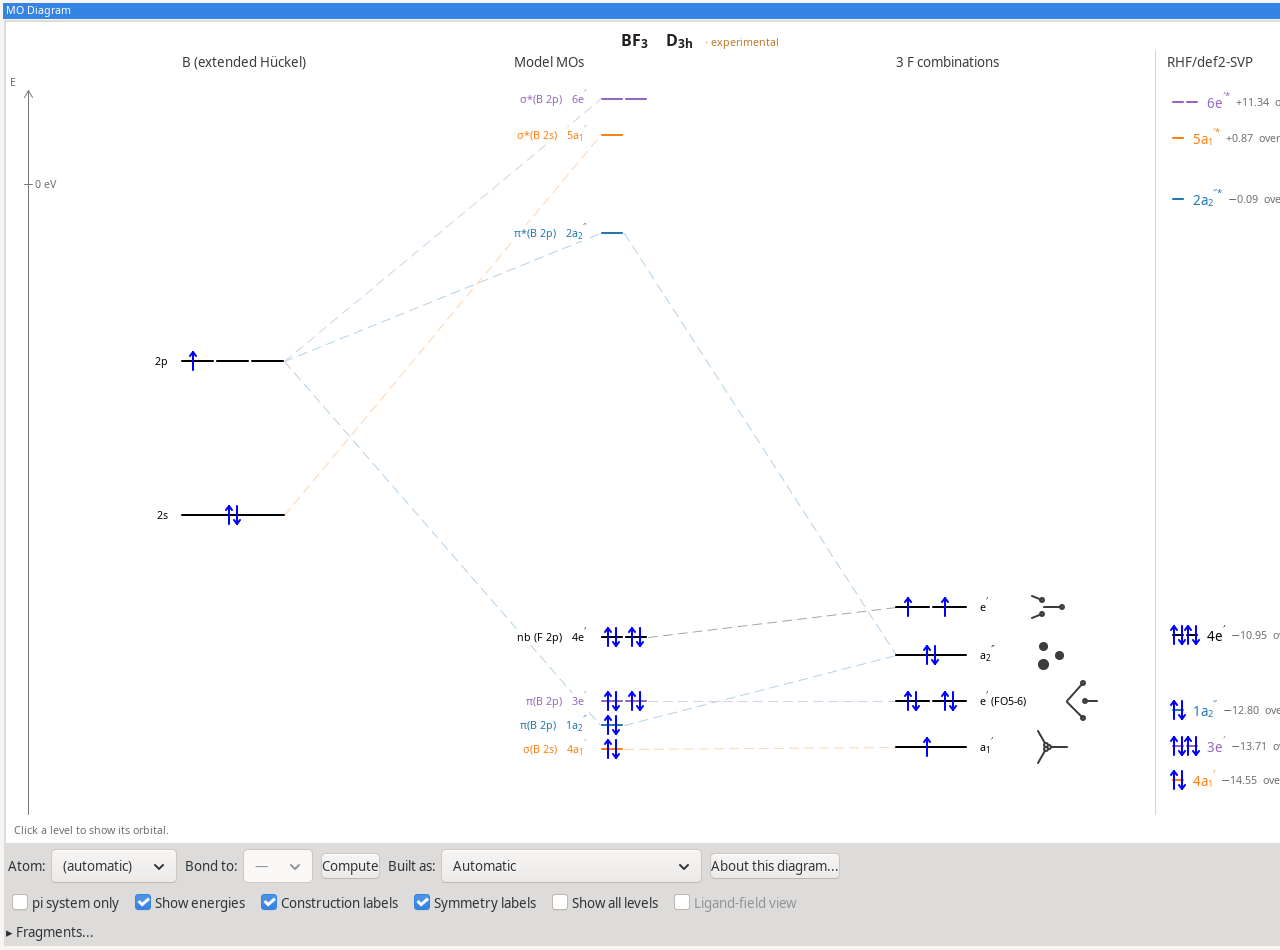
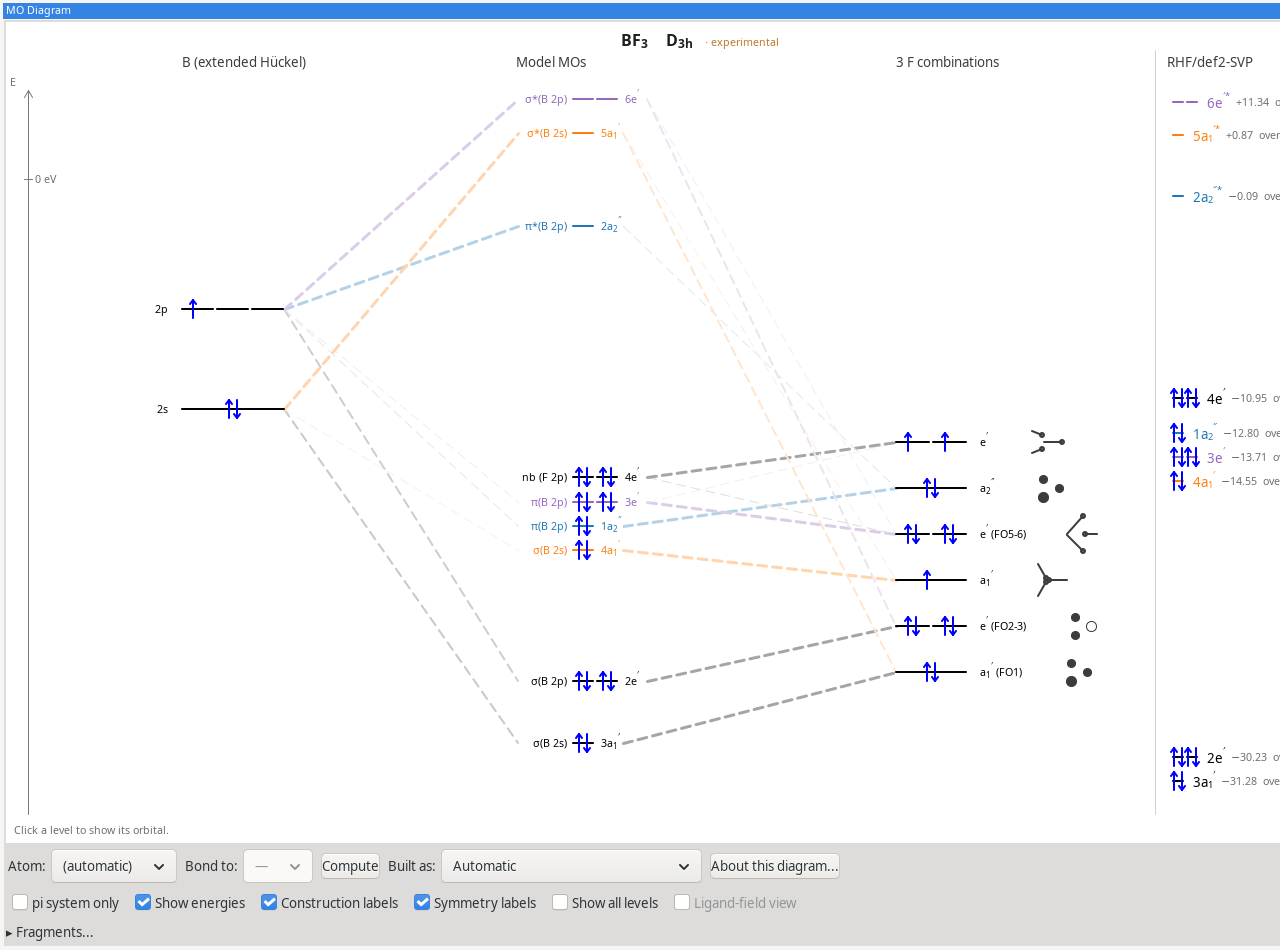
MO diagram labels: construction left / symmetry right of the level, sigma/pi from ligand orbitals, C2 by overlap, 3 % weighted lines, no folded halves (#458)
Claude-Session: https://claude.ai/code/session_01EGw82hDZdA6WGyjZW5puiH

diff --git a/src/tdat/chemistry/ModelLabels.C b/src/tdat/chemistry/ModelLabels.C
@@ -2,8 +2,6 @@
 
 #include <algorithm>
 #include <cmath>
-#include <cstdio>
-#include <cstdlib>
 #include <map>
 
 #include "tdat/ModelDiagram.H"
@@ -167,21 +165,48 @@ bool ModelDiagram::constructLabels(const Input& in, vector<ConstructLabel>& out,
 
    if (central) {
       const double* pc = &in.coordsAng[3*in.leftAtoms[0]];
+      //  sigma/pi content of a coefficient vector on the ligand atoms, about each centre-ligand bond.
+      auto ligandSigmaPi = [&](const vector<double>& row, double& sg, double& pp) {
+         sg = pp = 0.0;
+         for (size_t a = 0; a < in.rightAtoms.size(); a++) {
+            double u[3], n = 0.0;
+            for (int q = 0; q < 3; q++) { u[q] = in.coordsAng[3*in.rightAtoms[a]+q] - pc[q]; n += u[q]*u[q]; }
+            n = sqrt(n);
+            for (int q = 0; q < 3; q++) u[q] /= (n > 0 ? n : 1.0);
+            vector<int> one(1, in.rightAtoms[a]);
+            double par, perp, d;
+            axisWeights(set, row, one, u, par, perp, d);
+            sg += par;  pp += perp;
+         }
+      };
+      //  A level is sigma or pi by the ligand fragment orbitals it is made of
+      //  (a degenerate set of them taken whole, as its members mix freely).
+      vector< vector<int> > groups;
+      FragmentOrbitals::groupFos(set, groups);
+      vector<double> groupSigma(groups.size(), 0.5);
+      for (size_t g = 0; g < groups.size(); g++) {
+         if (set.fos[groups[g][0]].fragment != 1) continue;
+         double sg = 0.0, pp = 0.0;
+         for (size_t q = 0; q < groups[g].size(); q++) {
+            double a, b;
+            ligandSigmaPi(set.fos[groups[g][q]].coef, a, b);
+            sg += a;  pp += b;
+         }
+         if (sg + pp > 1e-12) groupSigma[g] = sg/(sg + pp);
+      }
       for (size_t c = 0; c < cl.size(); c++) {
          ConstructLabel& L = out[c];
          double sigW = 0.0, piW = 0.0;
-         for (size_t k = 0; k < cl[c].mos.size(); k++) {
-            const vector<double>& row = rows[cl[c].mos[k]];
-            for (size_t a = 0; a < in.rightAtoms.size(); a++) {
-               double u[3], n = 0.0;
-               for (int q = 0; q < 3; q++) { u[q] = in.coordsAng[3*in.rightAtoms[a]+q] - pc[q]; n += u[q]*u[q]; }
-               n = sqrt(n);
-               for (int q = 0; q < 3; q++) u[q] /= (n > 0 ? n : 1.0);
-               vector<int> one(1, in.rightAtoms[a]);
-               double par, perp, d;
-               axisWeights(set, row, one, u, par, perp, d);
-               sigW += par;  piW += perp;
-            }
+         for (size_t g = 0; g < groups.size(); g++) {
+            if (set.fos[groups[g][0]].fragment != 1) continue;
+            double share = 0.0;
+            for (size_t k = 0; k < cl[c].mos.size(); k++)
+               for (size_t q = 0; q < groups[g].size(); q++) {
+                  const double a = amp[cl[c].mos[k]][groups[g][q]];
+                  share += a*a;
+               }
+            sigW += share*groupSigma[g];
+            piW += share*(1.0 - groupSigma[g]);
          }
          const vector<double>& lead = rows[cl[c].mos[0]];
          const bool onCentre = shL[c] >= shR[c];
@@ -285,12 +310,6 @@ bool ModelDiagram::constructLabels(const Input& in, vector<ConstructLabel>& out,
       n.shell = n.parL.substr(n.parL.find(' ') + 1);
    }
 
-   if (getenv("ECCE_LABELS_DEBUG")) {
-      for (size_t c = 0; c < named.size(); c++)
-         fprintf(stderr, "unmixed %zu E=%.2f eV type=%d parity=%d anti=%d %s\n", c, named[c].energy*27.2114,
-                 named[c].kind.type, named[c].kind.parity, (int)named[c].anti, named[c].shell.c_str());
-      for (size_t c = 0; c < cl.size(); c++) fprintf(stderr, "real %zu E=%.2f eV\n", c, cl[c].energy*27.2114);
-   }
    //  Real levels, grouped by (type, parity); energy order against energy order.
    map<pair<int,int>, vector<size_t> > realBy, unBy;
    vector<Kind> realKind(cl.size());
@@ -303,8 +322,41 @@ bool ModelDiagram::constructLabels(const Input& in, vector<ConstructLabel>& out,
       if (it->first.first == 2) continue;
       const vector<size_t>& u = unBy[it->first];
       if (u.size() != it->second.size()) continue;       // not a clean correlation: say nothing
+      //  One-to-one assignment of the real levels to the unmixed ones that
+      //  maximises the summed squared overlap; energy order breaks ties.
+      const size_t nn = u.size();
+      vector<size_t> pm(nn);
+      for (size_t k = 0; k < nn; k++) pm[k] = k;
+      if (nn > 1 && nn <= 7) {
+         vector< vector<double> > w(nn, vector<double>(nn, 0.0));
+         for (size_t i = 0; i < nn; i++)
+            for (size_t j = 0; j < nn; j++) {
+               const Level& R = cl[it->second[i]];
+               const Level& U = ucl[u[j]];
+               for (size_t a = 0; a < R.mos.size(); a++)
+                  for (size_t b = 0; b < U.mos.size(); b++) {
+                     //  Both vectors normalised in the full overlap metric.
+                     double o = 0.0, nu = 0.0;
+                     for (size_t p = 0; p < nf; p++) {
+                        double sc = 0.0;
+                        for (size_t q = 0; q < nf; q++) sc += set.overlap[p*nf+q]*uRows[U.mos[b]][q];
+                        o += rows[R.mos[a]][p]*sc;
+                        nu += uRows[U.mos[b]][p]*sc;
+                     }
+                     w[i][j] += nu > 1e-12 ? o*o/nu/R.mos.size() : 0.0;
+                  }
+            }
+         vector<size_t> trial(pm);
+         double best = -1e30;
+         do {
+            double sc = 0.0;
+            for (size_t i = 0; i < nn; i++)
+               sc += w[i][trial[i]] - 1e-6*fabs((double)i - (double)trial[i]);
+            if (sc > best) { best = sc; pm = trial; }
+         } while (next_permutation(trial.begin(), trial.end()));
+      }
       for (size_t k = 0; k < u.size(); k++) {
-         const Named& n = named[u[k]];
+         const Named& n = named[u[pm[k]]];
          ConstructLabel& L = out[it->second[k]];
          const char* kind = n.kind.type == 0 ? SIGMA : PI;
          const size_t c = it->second[k];

diff --git a/src/apps/builder/MoDiagramCanvas.H b/src/apps/builder/MoDiagramCanvas.H
@@ -1056,6 +1056,7 @@ class MoDiagramCanvas : public wxPanel
       int labelW;      // width of the label's row
       int labelH;      // height of the label's row
       int top, bottom; // the arrows
+      int linkL, linkR;  // where the links from the left and right fragment columns meet the level
     };
     vector<CentreLane> p_cLanes;
     int p_cLaneTotal = 0;
@@ -1098,7 +1099,7 @@ class MoDiagramCanvas : public wxPanel
       const int row = dc.GetTextExtent(wxT("Xg")).y;
       const int R = row + 2;
 
-      int labelCol = 0, slotsMax = 0;
+      int conCol = 0, symCol = 0, slotsMax = 0;
       vector<int> natural(n), half(n);
       for (int i = 0; i < n; i++) {
         const int count = p_centre.levels[i].degeneracy > 0 ? p_centre.levels[i].degeneracy : 1;
@@ -1109,15 +1110,16 @@ class MoDiagramCanvas : public wxPanel
       const int budget = maxWidth - slotsMax - 16;
       p_cMode = 2;
       for (int mode = 0; mode < 3; mode++) {
-        int widest = 0;
+        int wcMax = 0, wlMax = 0;
         for (int i = 0; i < n; i++) {
           vector<Piece> pieces;
           int wl, wc;
           string text;
           centreRow(dc, p_centre.levels[i], pieces, wl, wc, text, mode);
-          widest = max(widest, wl + (wl && wc ? 10 : 0) + wc);
+          wcMax = max(wcMax, wc);
+          wlMax = max(wlMax, wl);
         }
-        if (widest <= budget || mode == 2) { p_cMode = mode; labelCol = widest; break; }
+        if (wcMax + wlMax + 16 <= budget || mode == 2) { p_cMode = mode; conCol = wcMax; symCol = wlMax; break; }
       }
       slotsMax = 0;
       for (int i = 0; i < n; i++) {
@@ -1153,9 +1155,15 @@ class MoDiagramCanvas : public wxPanel
         else p_zeroY = min(lim1, posBottom + R);
       }
 
-      for (int i = 0; i < n; i++) p_cLanes[i].labelW = labelCol;
-      p_cLabelRight = labelCol;
-      const int lineX = labelCol + 16;
+      //  construction label | lines | symmetry label; the right-hand links start after the latter.
+      const int lineX = conCol + (conCol ? 12 : 6);
+      for (int i = 0; i < n; i++) {
+        const int count = p_centre.levels[i].degeneracy > 0 ? p_centre.levels[i].degeneracy : 1;
+        p_cLanes[i].labelW = conCol + symCol;
+        p_cLanes[i].linkL = lineX - 2 - (conCol ? conCol + 8 : 0);
+        p_cLanes[i].linkR = lineX + count*centreSlot() - 2 + (symCol ? symCol + 8 : 0);
+      }
+      p_cLabelRight = lineX;
       for (int i = 0; i < n; i++) {
         CentreLane& c = p_cLanes[i];
         c.lane = 0;
@@ -1165,7 +1173,7 @@ class MoDiagramCanvas : public wxPanel
         c.top = y[i] - half[i];
         c.bottom = y[i] + half[i];
       }
-      p_cLaneTotal = lineX + slotsMax;
+      p_cLaneTotal = lineX + slotsMax + (symCol ? symCol + 8 : 0);
       return p_cLaneTotal;
     }
 
@@ -1199,14 +1207,13 @@ class MoDiagramCanvas : public wxPanel
         centreRow(dc, level, pieces, wl, wc, conText, p_cMode);
         dc.SetFont(base);
         const int row = dc.GetTextExtent(wxT("Xg")).y;
-        const int right = x0 + p_cLabelRight;
         const int top = c.labelY - row/2;
-        const int xSym = right - wl;
-        const int xCon = xSym - (wl && wc ? 10 : 0) - wc;
-        const int xLeftmost = min(wl ? xSym : right, wc ? xCon : right);
+        const int xCon = x0 + c.lineX - 6 - wc;
+        const int xSym = x0 + c.lineX + count*slot + 4;
         dc.SetPen(*wxTRANSPARENT_PEN);
         dc.SetBrush(*wxWHITE_BRUSH);
-        if (wl || wc) dc.DrawRectangle(xLeftmost - 2, top, right - xLeftmost + 4, row);
+        if (wc) dc.DrawRectangle(xCon - 2, top, wc + 4, row);
+        if (wl) dc.DrawRectangle(xSym - 2, top, wl + 4, row);
         dc.SetBrush(*wxTRANSPARENT_BRUSH);
         dc.SetTextForeground(colour);
         if (wc) dc.DrawText(wxString(conText.c_str(), wxConvUTF8), xCon, top);
@@ -2330,7 +2337,18 @@ class MoDiagramCanvas : public wxPanel
                                (tint.Blue()  + 2*255)/3);
           //  One width for every construction: a thicker line reads as a
           //  rendering artifact, and the share is in the level's text.
-          dc.SetPen(wxPen(tint, 1, wxPENSTYLE_SHORT_DASH));
+          //  Weighted lines: width and strength grow with the share, 3 % thin and
+          //  faint up to 50 % full.
+          int penWidth = 1;
+          if (link.weight >= 0.0) {
+            const double t = max(0.0, min(1.0, (link.weight - 0.03)/0.47));
+            penWidth = 1 + (int)floor(2.0*t + 0.5);
+            const double keep = 0.35 + 0.65*t;
+            tint = wxColour((int)(255 - keep*(255 - tint.Red())),
+                            (int)(255 - keep*(255 - tint.Green())),
+                            (int)(255 - keep*(255 - tint.Blue())));
+          }
+          dc.SetPen(wxPen(tint, penWidth, wxPENSTYLE_SHORT_DASH));
 
           //  WHERE THE LEVEL IS DRAWN, not where its energy puts it.
           //
@@ -2349,8 +2367,9 @@ class MoDiagramCanvas : public wxPanel
           if (model && (size_t)link.centreLevel < p_cLanes.size()) {
             const CentreLane& c = p_cLanes[link.centreLevel];
             const int count = max(1, p_centre.levels[link.centreLevel].degeneracy);
-            cxL = xCentre + c.lineX - 2;
-            cxR = xCentre + c.lineX + count*centreSlot() - 2;
+            (void)count;
+            cxL = xCentre + c.linkL;
+            cxR = xCentre + c.linkR;
           }
           if (link.leftLevel >= 0 && link.leftLevel < (int)p_left.levels.size()) {
             dc.DrawLine(xLeft + leftWidth,

diff --git a/tests/modellabels/modellabels_test.C b/tests/modellabels/modellabels_test.C
@@ -43,6 +43,21 @@ static std::string join(const Labels& l, size_t from, size_t n, bool full)
    return s;
 }
 
+//  A bonding level and its antibonding partner are of one sigma/pi type: each
+//  type has at least as many bonding as antibonding levels, and none is
+//  antibonding alone.
+static void partners(const Labels& l, const char* name)
+{
+   int bond[2] = {0, 0}, anti[2] = {0, 0};
+   for (size_t i = 0; i < l.size(); i++) {
+      if (l[i].nonbonding || l[i].plain.empty()) continue;
+      const int t = l[i].plain.compare(0, 2, "\xCF\x83") == 0 ? 0 : 1;
+      (l[i].antibonding ? anti : bond)[t]++;
+   }
+   for (int t = 0; t < 2; t++)
+      CHECK(anti[t] <= bond[t], "%s: %d antibonding vs %d bonding of type %d", name, anti[t], bond[t], t);
+}
+
 static std::vector<double> vec(const double* p, size_t n) { return std::vector<double>(p, p + n); }
 
 int main(int argc, char** argv)
@@ -64,7 +79,8 @@ int main(int argc, char** argv)
             "N2 plain: %s", join(n2, 0, 6, false).c_str());
       const double cc[6] = {0, 0, 0, 0, 0, 1.243};
       Labels c2 = run({"C", "C"}, vec(cc, 6), a, b, rot);
-      //  C2 is printed, not checked: the unmixed sigma*2p lies below sigma*2s there (open question, #458).
+      //  C2 is printed, not asserted: its 2sigma_u is a 50/50 s-p mixture (overlap .895 with sigma*2p,
+      //  .877 with sigma*2s), so neither energy order nor overlap names it sigma*2s (open, #458).
       const double oo[6] = {0, 0, 0, 0, 0, 1.208};
       Labels o2 = run({"O", "O"}, vec(oo, 6), a, b, rot);
       CHECK(join(o2, 0, 6, true) == N2, "O2: %s", join(o2, 0, 6, true).c_str());
@@ -95,6 +111,36 @@ int main(int argc, char** argv)
       for (size_t i = 0; i < l.size(); i++)
          if (l[i].nonbonding && l[i].otherShare < 1e-6) { nb++; if (l[i].orbitals.size() == 2) degenerate++; }
       CHECK(nb >= 2 && degenerate >= 1, "BF3: %d non-bonding levels, %d of them degenerate", nb, degenerate);
+      std::string valence;
+      for (size_t i = 0; i < l.size(); i++)
+         if (l[i].energy*27.2114 > -30.0 && !l[i].nonbonding) valence += (valence.empty() ? "" : " ") + l[i].full;
+      //  4a1', 1a2'', 3e', 2a2''*, 5a1'*, 6e'*.  3e' is pi: its ligand orbitals (e', 82 %
+      //  tangential) bond to B 2p only weakly; the sigma e' bond is the F 2s level at -40 eV.
+      CHECK(valence == "\xCF\x83(B 2s) \xCF\x80(B 2p) \xCF\x80(B 2p) \xCF\x80*(B 2p) \xCF\x83*(B 2s) \xCF\x83*(B 2p)",
+            "BF3 valence: %s", valence.c_str());
+      partners(l, "BF3");
+   }
+   {
+      const double h = 1.012, c = 0.38, r = sqrt(h*h - c*c);
+      std::vector<double> x(12, 0.0);
+      for (int k = 0; k < 3; k++) { x[3*(k+1)] = r*cos(2.0944*k); x[3*(k+1)+1] = r*sin(2.0944*k); x[3*(k+1)+2] = -c; }
+      Labels l = run({"N", "H", "H", "H"}, x, a, std::vector<int>{1, 2, 3}, true);
+      printf("NH3: %s\n", join(l, 0, l.size(), true).c_str());
+      partners(l, "NH3");
+   }
+   {
+      std::vector<double> x(39, 0.0);
+      std::vector<std::string> sym(1, "Cr");
+      const double dir[6][3] = {{1,0,0},{-1,0,0},{0,1,0},{0,-1,0},{0,0,1},{0,0,-1}};
+      for (int k = 0; k < 6; k++) {
+         sym.push_back("C"); sym.push_back("O");
+         for (int q = 0; q < 3; q++) { x[3*(1+2*k)+q] = 1.92*dir[k][q]; x[3*(2+2*k)+q] = 3.07*dir[k][q]; }
+      }
+      std::vector<int> lig;
+      for (int k = 1; k < 13; k++) lig.push_back(k);
+      Labels l = run(sym, x, a, lig, true);
+      printf("Cr(CO)6: %s\n", join(l, 0, l.size(), true).c_str());
+      partners(l, "Cr(CO)6");
    }
    printf(failures ? "FAILED\n" : "ok\n");
    return failures ? 1 : 0;

diff --git a/tests/modiagram/check_pairs.py b/tests/modiagram/check_pairs.py
@@ -309,6 +309,39 @@ def check_ethane(d):
     return bad
 
 
+def check_lines(d):
+    """#458: a drawn model level with >= 5 % on a fragment (a 3 % share can be split over sets) has a line to that column."""
+    bad = checked = 0
+    for name in sorted(os.listdir(d)):
+        if not name.endswith(".dump") or "-pi" in name or "lfview" in name or "pick" in name:
+            continue
+        inside, shares, linked = False, {}, {}
+        for line in open(os.path.join(d, name)):
+            if line.startswith("column "):
+                inside = line.strip() == "column centre"
+            elif inside and line.lstrip().startswith("level "):
+                f = dict(re.findall(r'(\w+)=("[^"]*"|\S+)', line))
+                i = int(line.split()[1])
+                if "construct" in line and float(f["shareLeft"]) >= 0 and float(f["shareRight"]) >= 0:
+                    shares[i] = (float(f["shareLeft"]), float(f["shareRight"]))
+            elif line.lstrip().startswith("link "):
+                f = dict(re.findall(r'(\w+)=(-?\d+)', line))
+                if "centre" not in f:
+                    continue
+                c = int(f["centre"])
+                linked.setdefault(c, [False, False])
+                linked[c][0] |= int(f["left"]) >= 0
+                linked[c][1] |= int(f["right"]) >= 0
+        for i, (l, r) in shares.items():
+            checked += 1
+            have = linked.get(i, [False, False])
+            if (l >= 0.05 and not have[0]) or (r >= 0.05 and not have[1]):
+                print("%s level %d: shares %.3f/%.3f, lines %s: FAIL" % (name, i, l, r, have))
+                bad += 1
+    print("lines for every share >= 3 %% over %d model levels: %s" % (checked, "ok" if not bad else "FAIL"))
+    return bad
+
+
 def main():
     d = sys.argv[1] if len(sys.argv) > 1 else os.path.join(HERE, "expected")
     bad = 0
@@ -334,6 +367,7 @@ def main():
     bad += check_lfview(d)
     bad += check_electrons(d)
     bad += check_neutral_ligands(d)
+    bad += check_lines(d)
     return 1 if bad else 0
 
 

diff --git a/src/tdat/chemistry/ModelDiagram.C b/src/tdat/chemistry/ModelDiagram.C
@@ -1317,6 +1317,21 @@ bool ModelDiagram::build(const Input& in,
       for (size_t o = 0; o < cl.size(); o++)
          if (cl[o].pairing == cl[c].pairing) cl[o].drawn = true;
    }
+   //  A fragment orbital in >= LINK_MIN of a drawn level is drawn, and then so is
+   //  every other level it is in: no half of an interaction is folded away.
+   vector<bool> forceSet(sets.size(), false);
+   if (!in.piOnly)
+      for (bool again = true; again;) {
+         again = false;
+         for (size_t s = 0; s < sets.size(); s++) {
+            if (!forceSet[s])
+               for (size_t c = 0; c < cl.size(); c++)
+                  if (cl[c].drawn && cl[c].share[s] >= LINK_MIN) { forceSet[s] = true; again = true; break; }
+            if (!forceSet[s]) continue;
+            for (size_t c = 0; c < cl.size(); c++)
+               if (!cl[c].drawn && cl[c].share[s] >= LINK_MIN) { cl[c].drawn = true; again = true; }
+         }
+      }
    //  Character of every model level, from the fragment orbitals it is made of.
    vector<map<string,double> > charAcc(cl.size());
    for (size_t c = 0; c < cl.size(); c++)
@@ -1503,7 +1518,7 @@ bool ModelDiagram::build(const Input& in,
       bool lined = false;
       for (size_t c = 0; c < cl.size(); c++)
          if (cl[c].drawn && cl[c].share[s] >= LINK_MIN) lined = true;
-      if (!lined || (bandRule && sets[s].nsShare >= 0.5)) continue;
+      if (!lined || (bandRule && sets[s].nsShare >= 0.5 && !forceSet[s])) continue;
       MoColumn& col = sets[s].fragment == 0 ? out.left : out.right;
       MoLevel lv;
       lv.energy = sets[s].energy;

diff --git a/include/tdat/ModelDiagram.H b/include/tdat/ModelDiagram.H
@@ -42,7 +42,7 @@ class ModelDiagram
   public:
 
     /** The smallest share of a fragment level that gets a line. */
-    static constexpr double LINK_MIN = 0.10;
+    static constexpr double LINK_MIN = 0.03;
     /** A level this much on the right fragment is ligand-internal (band). */
     static constexpr double INTERNAL_SHARE = 0.80;
     /** A pair needs at least this much of each fragment in both levels. */
